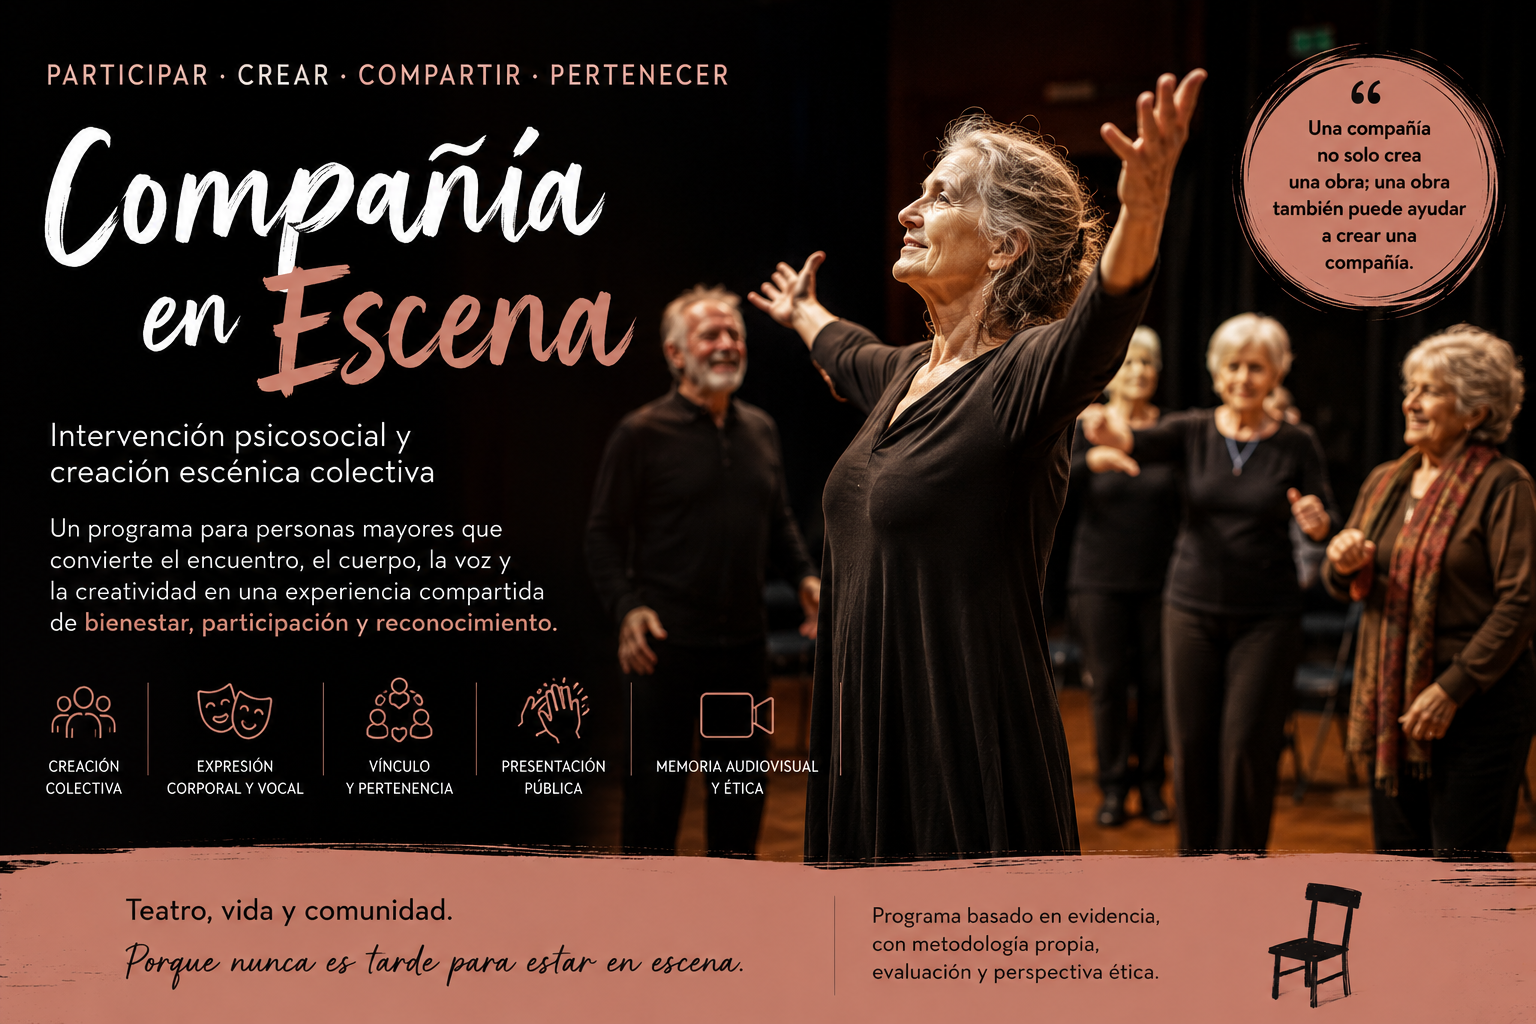
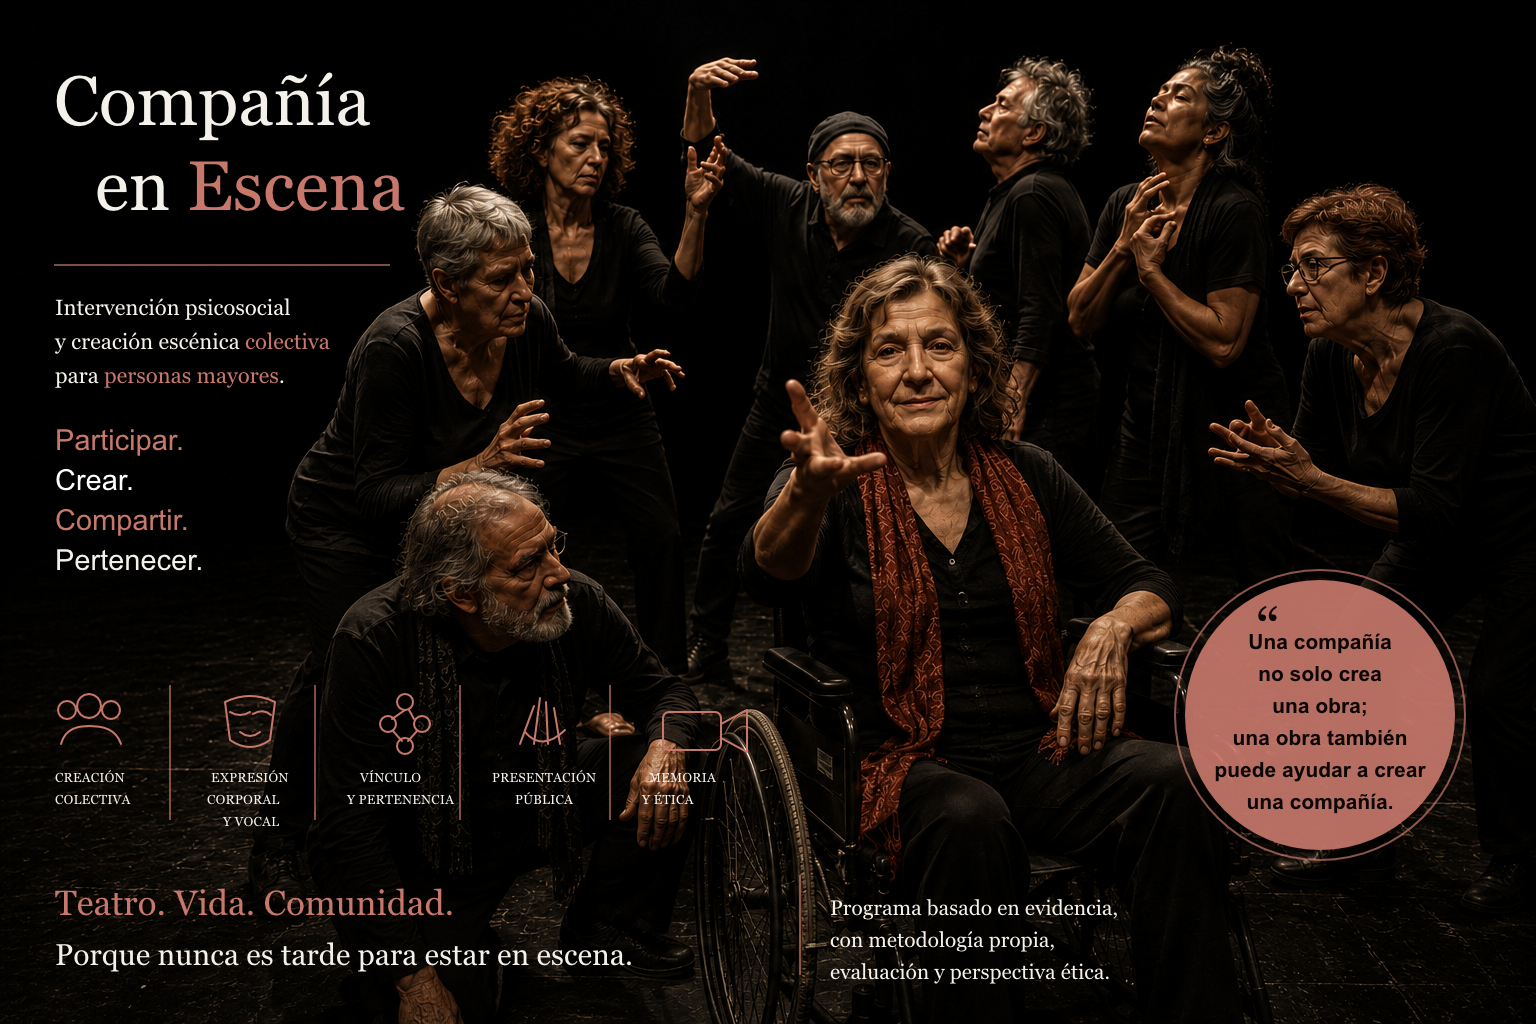
9

diff --git a/src/content/pages/escena.md b/src/content/pages/escena.md
@@ -16,10 +16,12 @@ Está dirigido principalmente a personas mayores, aunque puede adaptarse a otros
 
 El programa parte de una idea sencilla:
 
-**una compañía no sólo crea una obra;**  
-**una obra también puede ayudar a crear una compañía.**
+> una compañía no sólo crea una obra;  
+> una obra también puede a crear una compañía.
 
 ![Compañía en Escena, programa de intervención psicosocial y artes escénicas](../../assets/images/escena.png)
+
+---
 
 ## Qué propone
 
@@ -31,37 +33,41 @@ La presentación pública no se entiende como un examen ni como una exhibición 
 
 Se plantea como un acto de reconocimiento: una oportunidad para que participantes, familias, profesionales, instituciones y comunidad puedan encontrarse alrededor de una creación compartida.
 
+---
+
 ## Por qué artes escénicas
 
 Las artes escénicas permiten trabajar dimensiones profundamente humanas:
 
-presencia;
-cuerpo;
-voz;
-escucha;
-relación;
-memoria;
-confianza;
-exposición progresiva;
-participación;
-creación colectiva.
+- presencia;
+- cuerpo;
+- voz;
+- escucha;
+- relación;
+- memoria;
+- confianza;
+- exposición progresiva;
+- participación;
+- creación colectiva.
 
 En Compañía en Escena, el teatro no se utiliza como simple entretenimiento ni como terapia clínica encubierta.
 
 Se utiliza como un espacio de participación significativa, donde las personas pueden ocupar un lugar activo, aportar materiales propios, construir vínculos y ser vistas desde una posición más digna, creativa y compleja.
 
+---
+
 ## A quién va dirigido
 
 El programa está especialmente pensado para:
 
-personas mayores;
-centros de día;
-residencias;
-asociaciones;
-programas de envejecimiento activo;
-proyectos comunitarios;
-contextos intergeneracionales;
-entidades vinculadas a discapacidad, inclusión social o participación cultural.
+- personas mayores;
+- centros de día;
+- residencias;
+- asociaciones;
+- programas de envejecimiento activo;
+- proyectos comunitarios;
+- contextos intergeneracionales;
+- entidades vinculadas a discapacidad, inclusión social o participación cultural.
 
 La metodología puede adaptarse a distintos niveles de autonomía, experiencia previa y condición física.
 
@@ -69,42 +75,48 @@ No es necesario haber hecho teatro antes.
 
 Lo importante no es formar actores profesionales, sino crear una compañía capaz de vivir un proceso artístico compartido con seguridad, cuidado y sentido.
 
+---
+
 ## Cómo se desarrolla
 
 El formato estándar se plantea como un proceso de varias semanas, con sesiones regulares de trabajo escénico.
 
 Las sesiones incluyen:
 
-acogida;
-entrenamiento corporal;
-respiración;
-trabajo vocal;
-entrenamiento escénico;
-descanso;
-composición o ensayo;
-transición;
-cierre.
+- acogida;
+- entrenamiento corporal;
+- respiración;
+- trabajo vocal;
+- entrenamiento escénico;
+- descanso;
+- composición o ensayo;
+- transición;
+- cierre.
 
 El proceso avanza de forma progresiva: primero se construye seguridad, después confianza grupal, después lenguaje común, después materiales escénicos, después obra, presentación pública y cierre interno.
+
+---
 
 ## Qué busca favorecer
 
 Compañía en Escena busca generar condiciones para que aparezcan:
 
-participación activa;
-pertenencia;
-confianza grupal;
-expresión corporal y vocal;
-autoeficacia;
-escucha;
-reconocimiento;
-memoria compartida;
-sentido comunitario;
-bienestar subjetivo.
+- participación activa;
+- pertenencia;
+- confianza grupal;
+- expresión corporal y vocal;
+- autoeficacia;
+- escucha;
+- reconocimiento;
+- memoria compartida;
+- sentido comunitario;
+- bienestar subjetivo.
 
 El programa no promete transformaciones automáticas ni resultados idénticos para todas las personas.
 
 Su valor está en ofrecer una estructura cuidada para que un grupo pueda crear, relacionarse, exponerse de forma progresiva y construir algo significativo junto a otras personas.
+
+---
 
 ## Una metodología con base técnica y ética
 
@@ -117,6 +129,8 @@ El proceso puede incluir registro audiovisual y una pieza final de memoria, siem
 No todo lo vivido debe convertirse en archivo.
 
 Algunas experiencias necesitan simplemente ser compartidas.
+
+---
 
 ## El centro del proyecto
 

diff --git a/src/content/pages/contact.md b/src/content/pages/contact.md
@@ -14,9 +14,7 @@ Si quieres proponer una colaboración, consultar un proyecto o hablar sobre posi
 
 ---
 
-## Para qué puedes contactarme
-
-Puedes escribirme especialmente para cuestiones relacionadas con:
+## Puedes escribirme especialmente para cuestiones relacionadas con:
 
 - proyectos de intervención psicosocial;
 - programas de envejecimiento activo y saludable;